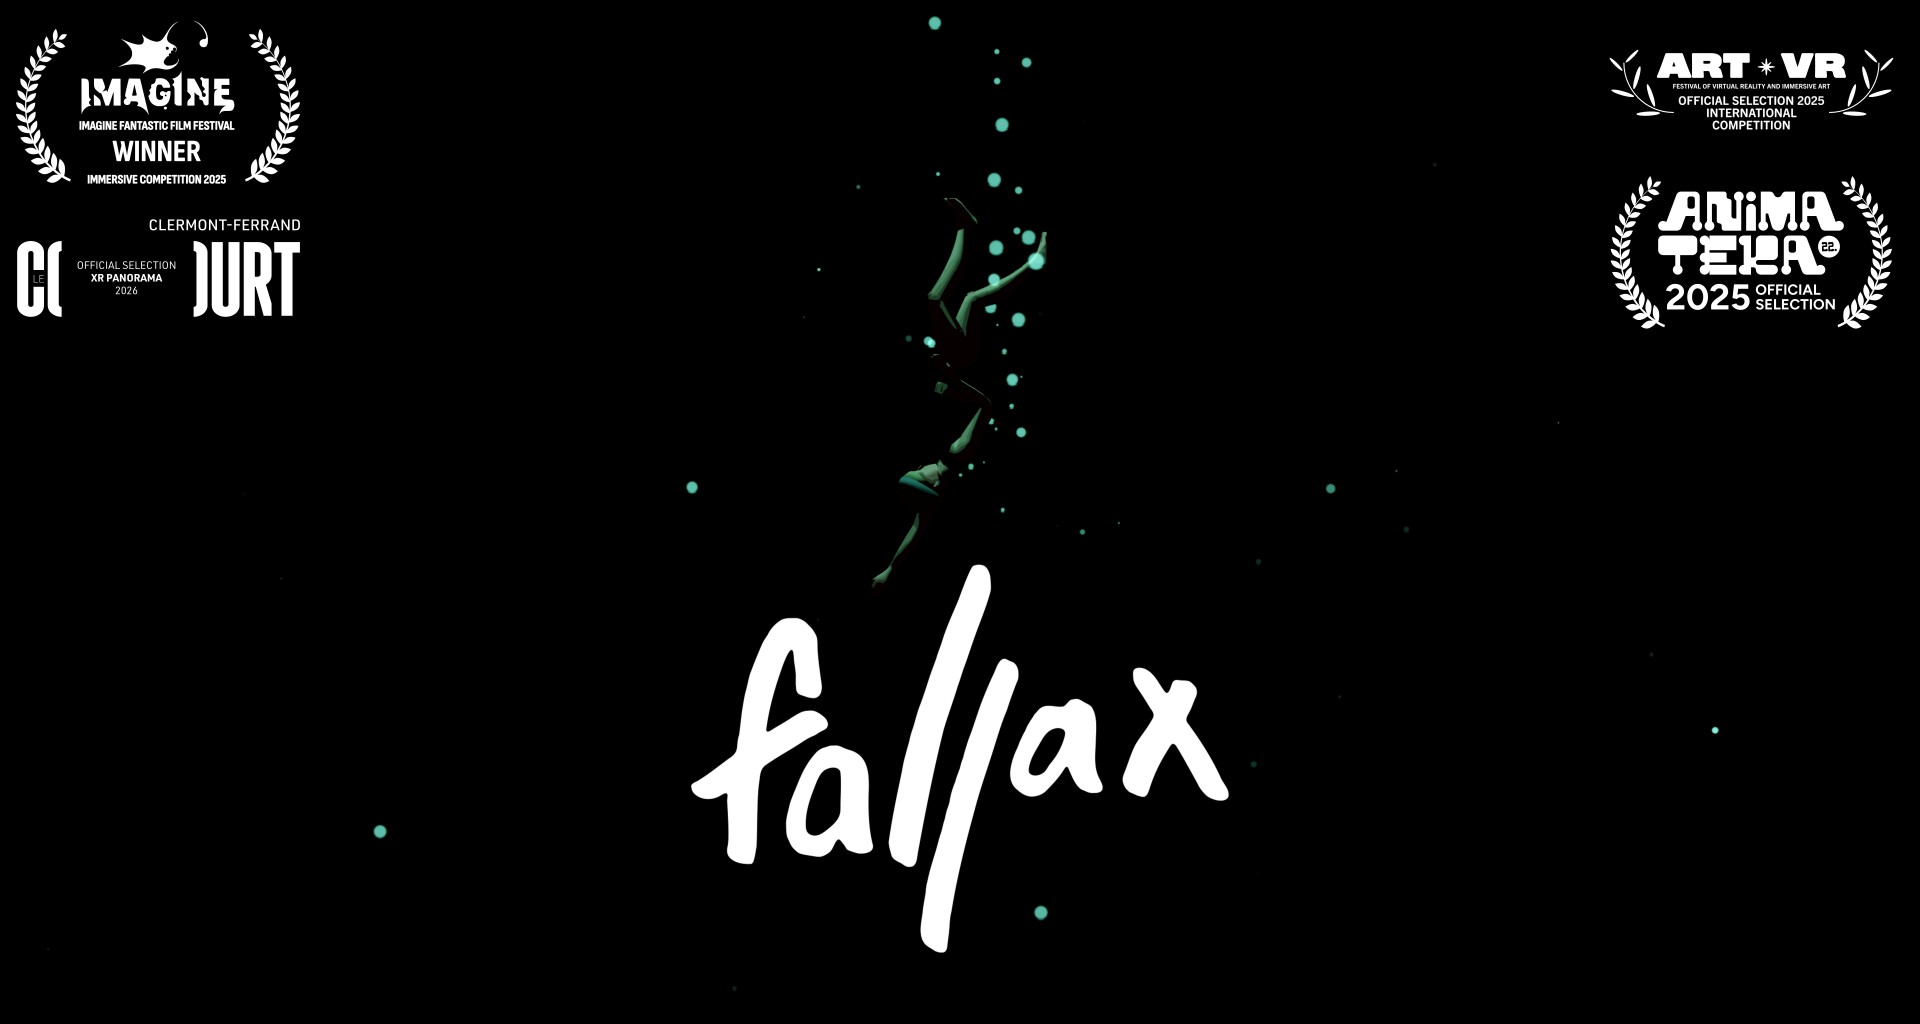
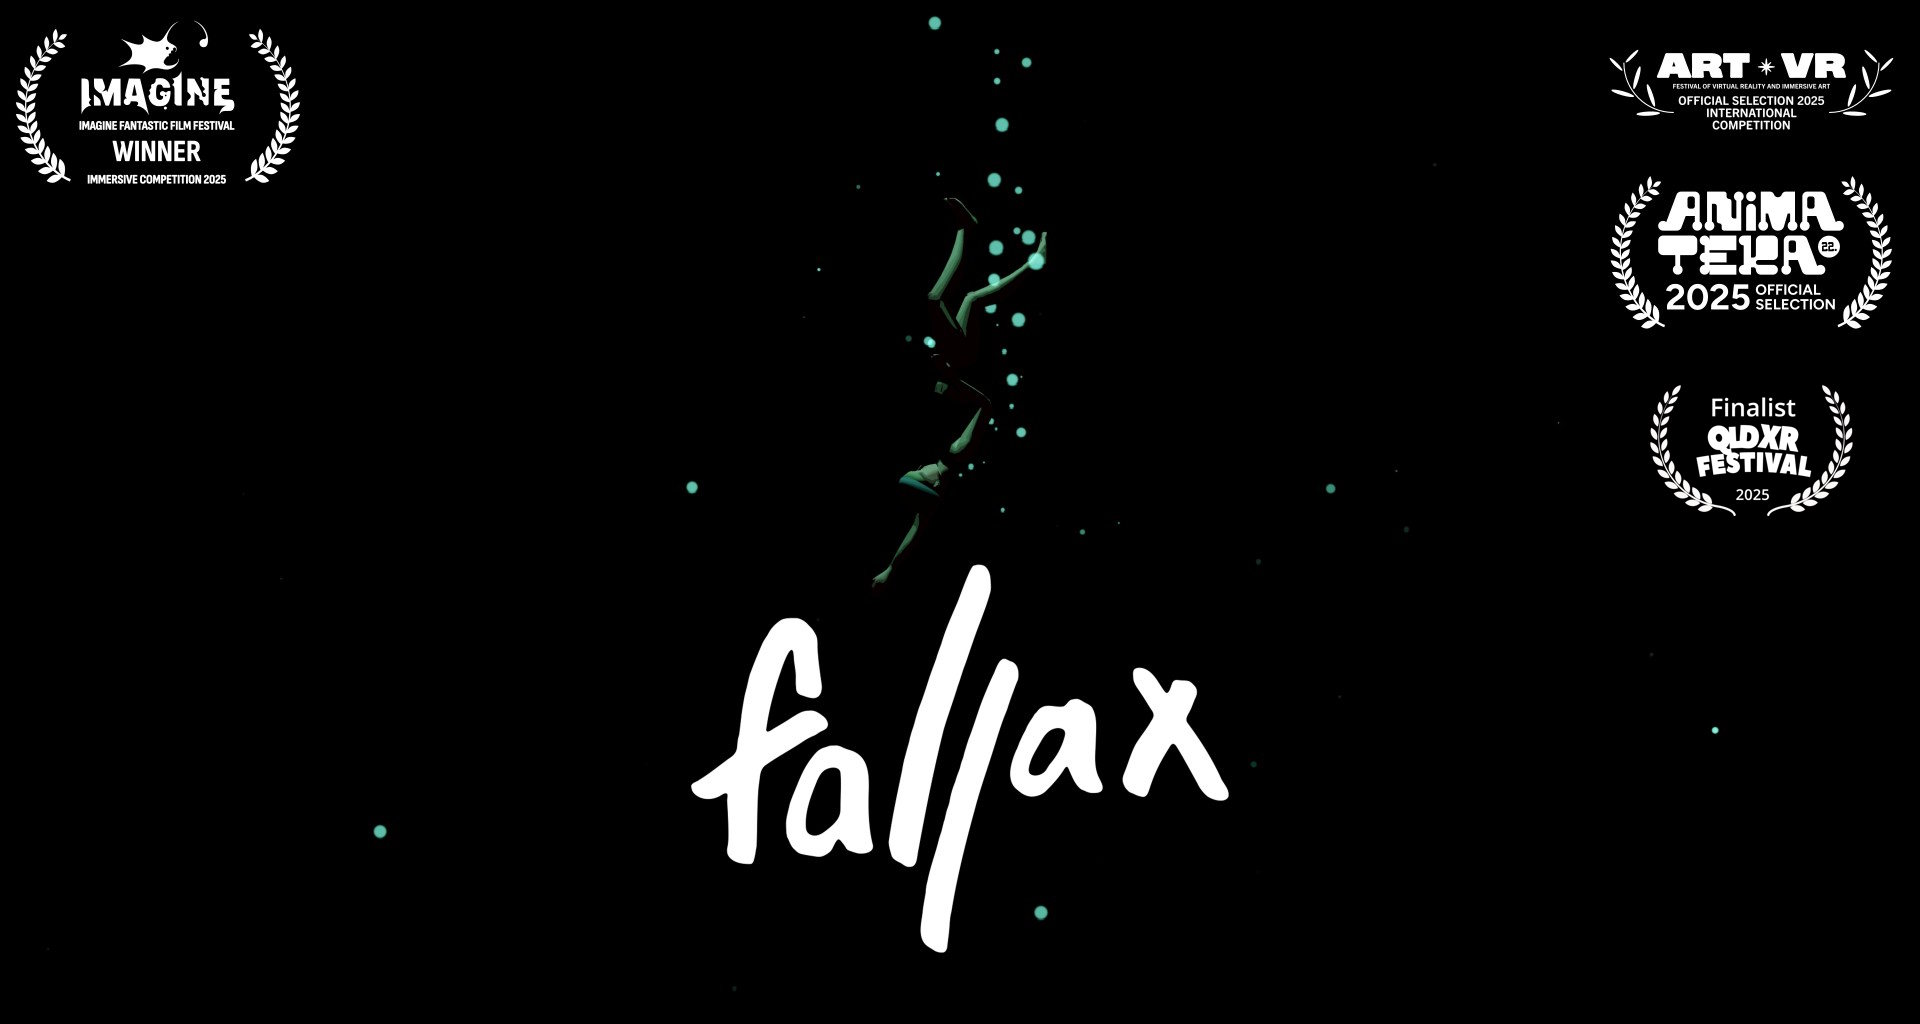
update swimmer image

Changed region(s): [[0.8438, 0.375, 0.9688, 0.5], [0.0, 0.2188, 0.1562, 0.3125]]

diff --git a/site-source/articles/fallax.html b/site-source/articles/fallax.html
@@ -38,6 +38,9 @@ large: true
 	<p>
 		<strong>OFFICIAL SELECTION : Animateka, Ljubljana 2025</strong>
 	</p>
+	<p>
+		<strong>FINALIST : QLD XR Festival, Brisbane 2025</strong>
+	</p>
 </section>
 
 <section>

diff --git a/docs/fallax/index.html b/docs/fallax/index.html
@@ -80,6 +80,9 @@
 	<p>
 		<strong>OFFICIAL SELECTION : Animateka, Ljubljana 2025</strong>
 	</p>
+	<p>
+		<strong>FINALIST : QLD XR Festival, Brisbane 2025</strong>
+	</p>
 </section>
 
 <section>
